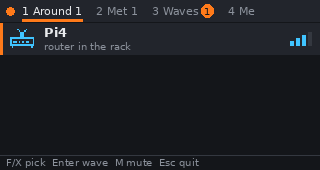
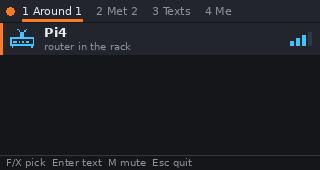
1.2.0 README and store listing: encrypted texts, Background setting, new screenshots

Changed region(s): [[0.5, 0.0294, 0.8125, 0.1176], [0.25, 0.9412, 0.625, 1.0], [0.4062, 0.0294, 0.4375, 0.0882]]

diff --git a/README.md b/README.md
@@ -1,21 +1,24 @@
 # Nearby for CardputerZero
 
-Swap profile cards with every CardputerZero you pass, and wave at the ones around you.
+Swap profile cards with every CardputerZero you pass, and send end-to-end encrypted texts to the
+people you meet.
 
 <p>
   <img src="screenshots/screenshot-0.png" width="320" alt="Around tab: Pi4 in range with signal bars">
-  <img src="screenshots/screenshot-1.png" width="320" alt="Waves tab: a wave from Pi4">
+  <img src="screenshots/screenshot-1.png" width="320" alt="Texts tab: an encrypted reply and two delivered texts">
 </p>
 
 - **Your card:** a nickname, a colour, a status line and a 16x16 avatar you draw on the keyboard.
-- **Pass-by:** walk past anyone else running Nearby and you swap cards automatically, even with
-  the app closed and the Cardputer in your pocket.
+- **Pass-by:** walk past anyone else running Nearby and you swap cards automatically.
 - **Around** shows who is in range right now. **Met** is everyone you have ever swapped with.
-- **Waves:** pick someone and send a short message (18 characters). Their Cardputer beeps and
-  pops it up. Mute anyone who spams.
+- **Texts:** send up to 40 characters to anyone you have met. Only they can read it, a tick shows
+  when it arrived, and a text for you pops up and beeps. Mute anyone who spams.
+- **Safety code:** each chat shows 6 digits that are the same on both devices. Compare them in
+  person once to be sure nobody faked a card. A copied card is flagged and texting it is blocked.
+- **Listen-only** hides you completely. **Background off** saves about 25 MB of memory: Nearby then
+  only runs while the app is open.
 
-Everything is sent in the open over Bluetooth LE: anyone nearby running Nearby can read your card
-and your waves. Turn on **listen-only** to see others without being seen.
+Cards are public, and people nearby can see who you text and when (not what).
 
 ## Install
 
@@ -25,64 +28,71 @@ On the CardputerZero (Raspberry Pi OS based), in one command:
 git clone https://github.com/subnetsmith/cardputer-nearby && cd cardputer-nearby && sh packaging/build-deb.sh && sudo apt install ./build/nearby_*_all.deb
 ```
 
-**Nearby** appears in the launcher and the background service starts straight away and at every
-boot. Remove it with `sudo apt remove nearby`.
+**Nearby** appears in the launcher, the service starts straight away and at every boot, and the
+app starts it on demand. Remove it with `sudo apt remove nearby`.
 
 ## Keys
 
 | Key | Does |
 | --- | --- |
-| 1 2 3 4 | Around, Met, Waves, Me |
+| 1 2 3 4 | Around, Met, Texts, Me |
 | F / X | up / down |
 | Z / C | left / right (colour, avatar cursor) |
-| Enter | wave at the highlighted person, or edit a row on Me |
+| Enter | text the highlighted person, reply in Texts, or edit a row on Me |
 | Space | paint or erase a pixel in the avatar editor (Backspace clears it) |
 | M | mute or unmute the highlighted person |
-| Esc | leave an editor (your card saves) or quit |
+| Esc | leave an editor (your card saves; an unsent text asks first) or quit |
 
 F/X/Z/C are the same arrows the CardputerZero launcher uses.
 
 ## How it works
 
-Two programs, both Python 3 standard library plus Pillow and numpy:
-
 - **`nearbyd`**, a systemd service, owns the Bluetooth chip. It talks to it over a raw HCI socket:
-  it sets a random address, advertises your card and runs a passive scan. It runs as your user
-  with one extra capability, `CAP_NET_RAW`, and `NoNewPrivileges`. Not root.
+  random address, advertising, passive scan. It runs as your user with one extra capability,
+  `CAP_NET_RAW`, and `NoNewPrivileges`. Not root.
+- **`nearbyd.socket`** (`/run/nearby.sock`, owner-only) lets systemd start the service when the
+  app connects, so Background off costs nothing while the app is closed.
 - **`nearby`**, the app, draws the 320x170 screen straight to the framebuffer with Pillow, reads
-  the keyboard from evdev, and asks `nearbyd` for data over a Unix socket that only your user can
-  open.
+  the keyboard from evdev, and only redraws when something changes (about 0.3% CPU idle).
 
 **The beacon.** A card doesn't fit in one 31-byte advert, so it goes out in pieces, one every half
-second: card (nickname + colour), status, avatar top half, avatar bottom half, and any wave you are
-sending. Each piece is one manufacturer-data field:
+second: card (nickname + colour), status, avatar halves, public key halves, plus any text or
+receipt being sent. Each piece is one manufacturer-data field:
 
 ```
 FF FF | B7 | version<<4 | kind | card id (3 bytes) | payload (up to 22 bytes)
 ```
 
-0xFFFF is the company id the Bluetooth SIG reserves for testing, so it belongs to no company. A
-revision byte in each piece stops an old status or avatar being mixed with a new card.
+0xFFFF is the company id the Bluetooth SIG reserves for testing, so it belongs to no company.
 
-**Privacy.** The radio address is a non-resolvable private address that changes every 15 minutes.
-Your card, though, is a name badge: anyone who sees it again can recognise it. Listen-only stops
-sending entirely. Text from other people is cut to printable ASCII before it is stored or drawn.
+**Encryption.** Every card carries an X25519 public key. Two people's keys give a shared key
+(through HKDF-SHA256); a text is sealed with ChaCha20-Poly1305, all from the `cryptography`
+package, nothing hand-rolled. The nonce is sender id, recipient id and the sender's text counter,
+which is written to disk (fsync) before the text goes on air, so it never repeats. A 40-character
+text plus its 16-byte tag goes out as 4 fragments, resent for up to 2 minutes until the receiver
+sends back a receipt signed with the same shared key (HMAC-SHA256), so a receipt can't be faked.
+Altered texts fail the tag check; replays are ignored by the counter; the first key seen for a
+card is pinned and a different one marks the card as copied. The private key stays in
+`~/.local/share/nearby/profile.json` (0600) and is never sent to the app.
+
+Limits: who texts whom is visible; cards themselves aren't signed (a copier can show a card's
+name, but can't read or fake texts, and is flagged once it sends its own key); there is no
+forward secrecy, so someone who later copies your key file could read texts they recorded.
 
 **Real radios are lossy.** On a CardputerZero, beacons go missing for seconds at a time (Wi-Fi
-shares the radio). A nickname arrives within a second or two; a full avatar can take 20-30 s.
-Someone drops off Around after 30 s unheard. Another app driving the radio directly can switch
-Nearby's scanning off; `nearbyd` notices the silence and restarts the radio within 20 s.
-
-Data lives in `~/.local/share/nearby/` (your card, everyone you met, your waves), written
-atomically.
+shares the radio). A nickname arrives within a second or two, a full card and key in up to a
+minute, a text usually in 10-40 s. Someone drops off Around after 30 s unheard. Another app
+driving the radio directly can switch Nearby's scanning off; `nearbyd` restarts the radio after
+20 s of silence.
 
 ## Command line
 
 ```sh
-nearbyd status                    # your card, who is around, who you met, recent waves
+nearbyd status                    # your card, who is around, who you met (with safety codes), texts
 nearbyd card --nick Ada --colour 2 --status "ask me about Rust"
-nearbyd wave Ada "come say hi"
+nearbyd text Ada "come say hi"
 nearbyd listen on                 # listen-only
+nearbyd background off            # only run while the app is open
 ```
 
 ## Tests
@@ -91,13 +101,14 @@ nearbyd listen on                 # listen-only
 python3 -m unittest -v
 ```
 
-Packets and parsing, the HCI command loop, card swapping between two simulated devices, waves,
-mute, listen-only, saving, the socket, every screen, and every key path in the app.
+Packets, the HCI command loop, card and key swapping between simulated devices, encryption
+(altered, replayed and forged texts, copied cards, fake receipts, fragment floods), file
+permissions, the socket, every screen and every key path in the app.
 
 ## Limits
 
 - The service assumes your user is uid 1000, the first account on CardputerZero images.
 - Shifted symbols follow a US layout.
-- Bluetooth 4.2 legacy advertising only (no extended adverts on this chip).
+- Bluetooth 4.2 legacy advertising only. Version 1.2 can't talk to 1.1 (the beacon format changed).
 
 MIT licence.
